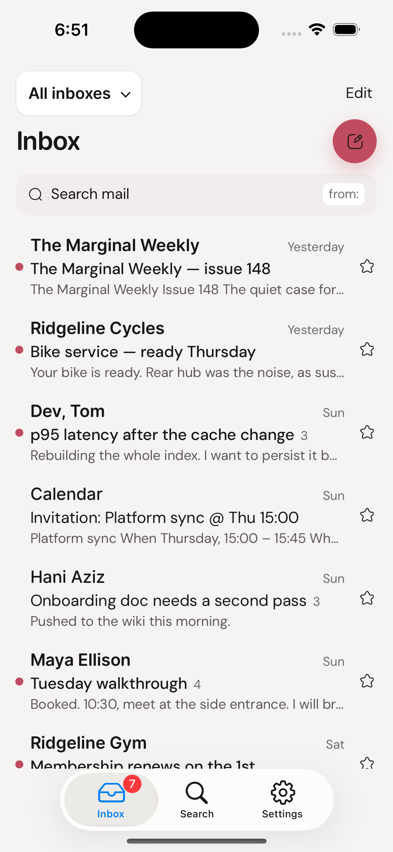
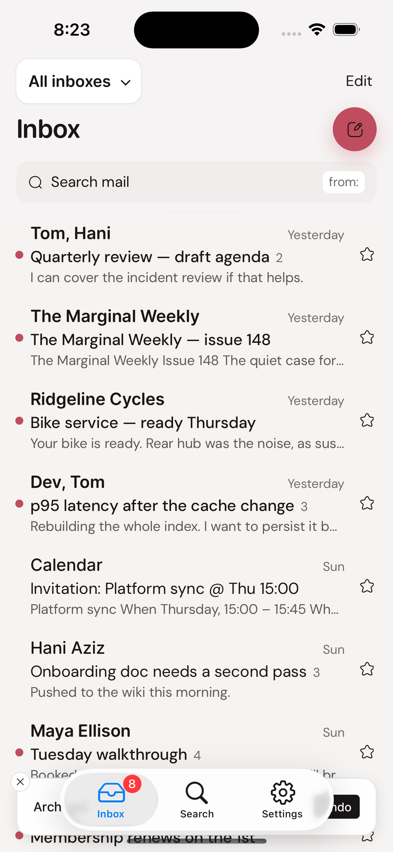
I8 lane 2: the simulator's answers — six defects the phone found in parts 0 to 2
Every one of these was invisible in the `?mobile=1` preview and fatal on the
device. In the order they were found.

1. **`viewport-fit=cover` was never set.** Without it WebKit reports every
   `env(safe-area-inset-*)` as zero and insets the layout viewport instead —
   so the safe-area arithmetic all over `mobile.css` was reading zero and
   living off its `max(..., 12px)` fallbacks. It only looked right because the
   old shell was `position: fixed; inset: 0`. Set on the page, which the
   desktop build cannot notice: a Mac has no insets.
2. **The web content swallowed no touches, then swallowed all of them.** A tab
   host's view is hit-testable even when it is empty and clear, so content
   underneath got nothing. The content now sits directly below the bar and
   above the hosts, re-asserted on every layout, and the hosts take no touches
   at all.
3. **The tab bar drew behind the page.** `insertSubview(_:belowSubview:)` at
   install runs before UIKit has finished adding its own subviews; the order is
   re-asserted in `viewDidLayoutSubviews` instead.
4. **React's development double-mount unsubscribed the live channel.** The
   first attach's teardown lands after the second attach and called
   `unwatch_tabs` on it: the bar highlighted the tapped tab and the route never
   moved. Only the newest subscription may clear the native side.
5. **The bar's height reaches the page as a CSS variable, not a safe area.**
[…]

diff --git a/src-tauri/plugins/maru-shell/ios/Sources/MaruShellPlugin.swift b/src-tauri/plugins/maru-shell/ios/Sources/MaruShellPlugin.swift
@@ -45,30 +45,74 @@ private struct TabSelectedEvent: Encodable {
 
 /// The tab bar controller, with the web content pinned under its bar.
 ///
-/// The content is not a child of the selected tab, so UIKit does not fold the
-/// bar's height into its safe area the way it would for a tab's own root. This
-/// asks for the same measurement by hand. `contentLayoutGuide` is the iOS 26
-/// answer and already accounts for the glass and for a minimized bar; below it
-/// the bar's frame is the same number.
+/// It also measures the bar for the page. The iOS 26 bar floats over the
+/// content by design, and `env(safe-area-inset-bottom)` carries only the
+/// window's own inset -- the home indicator -- however the content controller
+/// is parented. So the bar's own height is handed to CSS as a custom property
+/// instead, and `mobile.css` adds it to `env()` exactly where the web tab bar's
+/// height used to go.
 final class MaruShellTabBarController: UITabBarController {
   weak var content: UIViewController?
+  weak var webView: WKWebView?
+  /// The expanded bar's height, held while the bar is on screen.
+  private var reserved: CGFloat = 0
+  private var published: CGFloat = -1
+
+  /// Keeps the web content directly under the bar, every layout.
+  ///
+  /// UIKit adds and reorders the tab hosts as tabs change, so the order has to
+  /// be re-asserted rather than set once. Under the bar so the glass draws over
+  /// the page; above the hosts because a host's view is hit-testable even when
+  /// it is empty and clear, and anything above the content swallows every touch
+  /// the page should have had.
+  private func restack(_ content: UIViewController) {
+    guard content.view.superview === view else { return }
+    guard let barRoot = view.subviews.last(where: { tabBar.isDescendant(of: $0) }) else { return }
+    guard let barIndex = view.subviews.firstIndex(of: barRoot) else { return }
+    if view.subviews.firstIndex(of: content.view) != barIndex - 1 {
+      view.insertSubview(content.view, belowSubview: barRoot)
+    }
+  }
 
   override func viewDidLayoutSubviews() {
     super.viewDidLayoutSubviews()
     guard let content else { return }
-    let occluded: CGFloat
-    if #available(iOS 26.0, *) {
-      occluded = view.bounds.maxY - contentLayoutGuide.layoutFrame.maxY
+    restack(content)
+
+    let hidden: Bool
+    if #available(iOS 18.0, *) {
+      hidden = isTabBarHidden
     } else {
-      occluded = tabBar.isHidden ? 0 : tabBar.frame.height
+      hidden = tabBar.isHidden
     }
-    // Additional, so the window's own bottom inset -- the home indicator -- is
-    // not counted twice. The half-point threshold stops a rounding difference
-    // from bouncing layout back and forth.
-    let extra = max(0, occluded - view.safeAreaInsets.bottom)
-    if abs(content.additionalSafeAreaInsets.bottom - extra) > 0.5 {
-      content.additionalSafeAreaInsets.bottom = extra
+    // The bar's own frame. `contentLayoutGuide` reports the full view, because
+    // the iOS 26 bar is meant to float over the content rather than inset it.
+    var occluded: CGFloat = 0
+    if !hidden, tabBar.frame.minY < view.bounds.maxY {
+      occluded = view.bounds.maxY - tabBar.frame.minY
     }
+    // The high-water mark while the bar is up, not the measurement of the
+    // moment. The bar shrinks to a pill as the page scrolls, and a number that
+    // shrank with it would reflow the page mid-scroll and let the last row
+    // slide under the pill. Reserving the expanded height keeps the list still
+    // and leaves the minimized bar floating over the page's own bottom margin,
+    // which is what iOS does. A hidden bar reserves nothing and re-measures
+    // when it comes back.
+    reserved = hidden ? 0 : max(reserved, occluded)
+    // Only what the page does not already know: `env(safe-area-inset-bottom)`
+    // carries the home indicator, and the bar's frame includes it.
+    publish(max(0, reserved - view.safeAreaInsets.bottom))
+  }
+
+  private func publish(_ inset: CGFloat) {
+    // The webview, not the value, gates this: the first layout can land before
+    // the plugin has handed the controller its webview, and recording a value
+    // that never reached the page would make every later layout a no-op.
+    guard let webView, abs(published - inset) > 0.5 else { return }
+    published = inset
+    webView.evaluateJavaScript(
+      "document.documentElement.style.setProperty('--maru-native-tab-inset','\(inset)px')"
+    )
   }
 }
 
@@ -138,9 +182,13 @@ final class MaruShellPlugin: Plugin, UITabBarControllerDelegate {
 
     let controller = MaruShellTabBarController()
     controller.delegate = self
+    controller.webView = webView
     controller.viewControllers = tabs.enumerated().map { index, tab in
       let host = UIViewController()
       host.view.backgroundColor = .clear
+      // Nothing is drawn here and nothing may be touched here. The web content
+      // sits underneath and must receive every touch that is not the bar's.
+      host.view.isUserInteractionEnabled = false
       host.tabBarItem = UITabBarItem(
         title: tab.title,
         image: UIImage(systemName: tab.symbol),
@@ -172,7 +220,7 @@ final class MaruShellPlugin: Plugin, UITabBarControllerDelegate {
     // the web layer through the delegate instead.
     controller.addChild(root)
     root.view.translatesAutoresizingMaskIntoConstraints = false
-    controller.view.insertSubview(root.view, belowSubview: controller.tabBar)
+    controller.view.addSubview(root.view)
     NSLayoutConstraint.activate([
       root.view.topAnchor.constraint(equalTo: controller.view.topAnchor),
       root.view.bottomAnchor.constraint(equalTo: controller.view.bottomAnchor),

diff --git a/src/mobile/mobile.css b/src/mobile/mobile.css
@@ -35,6 +35,25 @@ html:has(.mobile-app) ::-webkit-scrollbar {
 }
 
 /*
+ * A sheet holds the page still.
+ *
+ * The document is the scroller, so without this a drag on a sheet or its scrim
+ * scrolls the inbox behind it — and scrolling behind a modal is also what would
+ * minimize the native tab bar under one. In CSS rather than in JS because the
+ * scroll position must not move: pinning the body instead would report a scroll
+ * offset of zero to the window virtualizer, which would then render the top of
+ * the list into a page that is still displaced, and the inbox would go blank
+ * behind the sheet.
+ */
+html:has(.mobile-sheet-layer) {
+  overflow: hidden;
+}
+
+html:has(.mobile-sheet-layer) .mobile-stage {
+  touch-action: none;
+}
+
+/*
  * The document is the scroller on the phone, and that is load-bearing rather
  * than a style choice: UIKit decides when to minimize the Liquid Glass tab bar
  * by watching a UIScrollView, and the only one in the hierarchy is the
@@ -65,13 +84,17 @@ html:has(.mobile-app) ::-webkit-scrollbar {
 }
 
 /*
- * With the native shell there is no bar in the document to leave room for.
- * UIKit folds the tab bar's height into the webview's safe-area inset instead,
- * so `env(safe-area-inset-bottom)` already clears the glass and adding the web
- * bar's height on top would leave a strip of dead space under every list.
+ * With the native shell there is no bar in the document to leave room for --
+ * but the iOS 26 bar floats over the page rather than insetting it, and
+ * `env(safe-area-inset-bottom)` carries only the home indicator. So the plugin
+ * measures the glass and publishes its height above that inset as
+ * `--maru-native-tab-inset`, and it lands exactly where the web bar's height
+ * used to. The fallback is zero, not a guess: until the measurement arrives on
+ * the first layout, a list that runs under the glass is better than a strip of
+ * dead space that has to be taken back.
  */
 .mobile-app[data-native-shell='true'] {
-  --mobile-tab-height: 0px;
+  --mobile-tab-height: var(--maru-native-tab-inset, 0px);
 }
 
 .mobile-app *,
@@ -163,13 +186,35 @@ html:has(.mobile-app) ::-webkit-scrollbar {
    anyway. */
 .mobile-nav {
   position: sticky;
-  z-index: 2;
+  z-index: 6;
   top: 0;
   flex: 0 0 auto;
   padding-block-start: max(env(safe-area-inset-top), 12px);
   padding-inline: max(env(safe-area-inset-left), 16px) max(env(safe-area-inset-right), 16px);
   background: color-mix(in oklch, var(--wren-surface-base) 94%, transparent);
   backdrop-filter: blur(18px) saturate(1.2);
+}
+
+/*
+ * The strip above the header.
+ *
+ * WebKit insets the page by the status bar's height and reports
+ * `env(safe-area-inset-top)` as zero for it, so the page's own top sits below
+ * the clock — but page content that has scrolled past the sticky header is
+ * still drawn up there, over the status bar. A native app puts its navigation
+ * bar in that strip; this header is that bar, so it paints through it. Opaque
+ * rather than the header's 94%, because there is no blurred backdrop behind a
+ * scroll view's inset to soften what shows through.
+ */
+.mobile-nav::before {
+  content: '';
+  position: absolute;
+  bottom: 100%;
+  left: 0;
+  right: 0;
+  height: 100vh;
+  background: var(--wren-surface-base);
+  pointer-events: none;
 }
 
 .mobile-nav-row,
@@ -1627,3 +1672,4 @@ html:has(.mobile-app) ::-webkit-scrollbar {
     background: var(--wren-fill-hover);
   }
 }
+

diff --git a/src/mobile/components/swipe-thread-row.tsx b/src/mobile/components/swipe-thread-row.tsx
@@ -1,4 +1,4 @@
-import { memo, useRef, useState, type PointerEvent as ReactPointerEvent } from 'react'
+import { memo, useCallback, useRef, useState, type PointerEvent as ReactPointerEvent } from 'react'
 
 import type { Thread } from '@/core/types'
 import { MobileIcon } from './mobile-icon'
@@ -40,10 +40,12 @@ export const SwipeThreadRow = memo(function SwipeThreadRow({
   const longPress = useRef<ReturnType<typeof setTimeout> | null>(null)
   const suppressClick = useRef(false)
 
-  const cancelLongPress = () => {
+  const cancelLongPress = useCallback(function cancel() {
     if (longPress.current) clearTimeout(longPress.current)
     longPress.current = null
-  }
+    window.removeEventListener('scroll', cancel)
+    window.removeEventListener('touchmove', cancel)
+  }, [])
 
   const drag = usePointerDrag({
     onMove: ({ dx, dy }) => {
@@ -71,6 +73,14 @@ export const SwipeThreadRow = memo(function SwipeThreadRow({
     drag.onPointerDown(event)
     if (editing) return
     suppressClick.current = false
+    // The page is the scroller now, so a press that becomes a scroll can stop
+    // reaching this row entirely: WebKit hands the gesture to the scroll view
+    // and `onMove` never fires to cancel the timer. A drag is never a long
+    // press, so the finger moving at all is the cancel — `touchmove` as well as
+    // `scroll`, because at the end of the list the gesture is still claimed by
+    // the scroll view and nothing scrolls.
+    window.addEventListener('scroll', cancelLongPress, { once: true, passive: true })
+    window.addEventListener('touchmove', cancelLongPress, { once: true, passive: true })
     longPress.current = setTimeout(() => {
       suppressClick.current = true
       onContext()

diff --git a/src/platform/shell.ts b/src/platform/shell.ts
@@ -73,15 +73,23 @@ export const nativeShell = {
  * The descriptors travel with the subscription because the bar cannot exist
  * before them: the plugin installs itself on this call.
  */
+let subscription = 0
+
 export async function attachNativeShell(
   tabs: readonly NativeTab[],
   onSelect: (index: number) => void,
 ): Promise<(() => void) | null> {
+  const mine = ++subscription
   const channel = new Channel<{ index: number }>()
   channel.onmessage = (message) => onSelect(message.index)
   if (!(await call('watch_tabs', { channel, tabs }))) return null
   return () => {
     channel.onmessage = () => {}
-    void call('unwatch_tabs')
+    // Only the newest subscription may clear the native side. React's
+    // development double-mount attaches twice and tears the first one down
+    // after the second has landed, and an unconditional `unwatch_tabs` there
+    // takes the live channel with it: the bar highlights the tab it was tapped
+    // on and the route never moves.
+    if (mine === subscription) void call('unwatch_tabs')
   }
 }

diff --git a/src/mobile/sheets/compose-sheet.tsx b/src/mobile/sheets/compose-sheet.tsx
@@ -11,7 +11,6 @@ import { useMailService } from '@/features/mail/service'
 import { cue } from '@/lib/cue'
 import { RecipientField, type RecipientFieldHandle } from '../components/recipient-field'
 import { MobileIcon } from '../components/mobile-icon'
-import { useBodyScrollLock } from '../use-body-scroll-lock'
 import { useModalFocus } from '../use-modal-focus'
 import { nativeShell } from '@/platform/shell'
 
@@ -57,7 +56,6 @@ export function ComposeSheet({ onSent }: { onSent: () => void }) {
     closeStore()
   }
   const dialogRef = useModalFocus<HTMLElement>(close)
-  useBodyScrollLock()
   // The composer ends in `notify('success')`. Same boundary, same reason.
   useEffect(() => {
     void nativeShell.prepareHaptics()

diff --git a/src/mobile/components/bottom-sheet.tsx b/src/mobile/components/bottom-sheet.tsx
@@ -3,7 +3,6 @@ import { createPortal } from 'react-dom'
 
 import { nativeShell } from '@/platform/shell'
 import { MobileIcon } from './mobile-icon'
-import { useBodyScrollLock } from '../use-body-scroll-lock'
 import { useModalFocus } from '../use-modal-focus'
 
 export function BottomSheet({
@@ -16,7 +15,6 @@ export function BottomSheet({
   children: ReactNode
 }) {
   const dialogRef = useModalFocus<HTMLElement>(onClose)
-  useBodyScrollLock()
   // A sheet is a haptic about to happen: Later commits one, the actions sheet
   // archives. This is the boundary that makes `prepare()` worth the call.
   useEffect(() => {

diff --git a/index.html b/index.html
@@ -2,7 +2,7 @@
 <html lang="en">
   <head>
     <meta charset="UTF-8" />
-    <meta name="viewport" content="width=device-width, initial-scale=1.0" />
+    <meta name="viewport" content="width=device-width, initial-scale=1.0, viewport-fit=cover" />
     <title>Maru</title>
   </head>
   <body>
